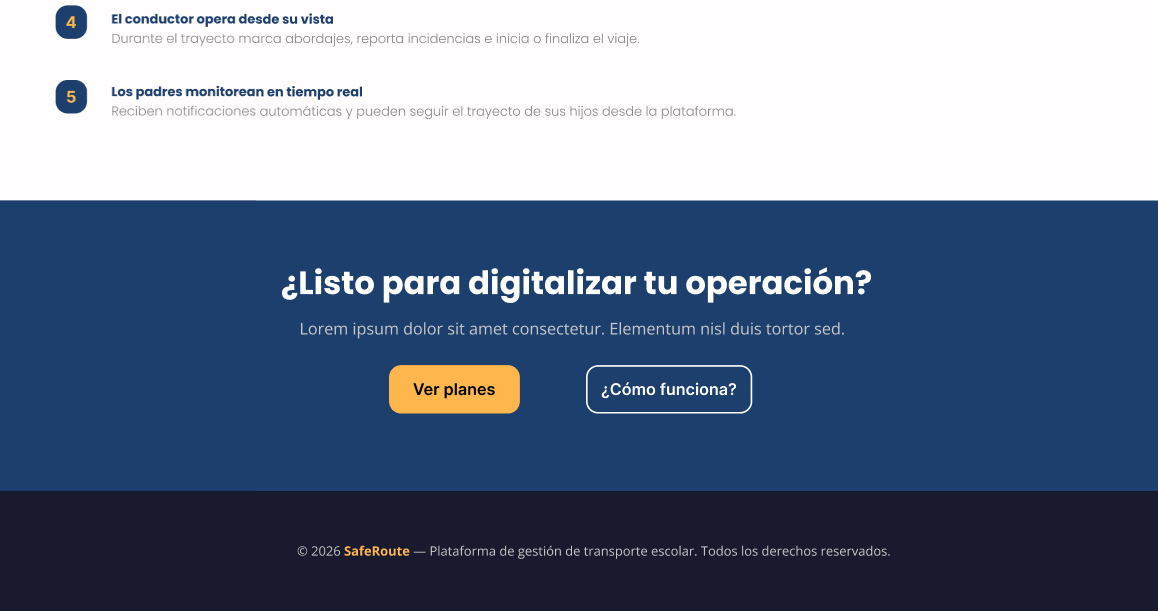
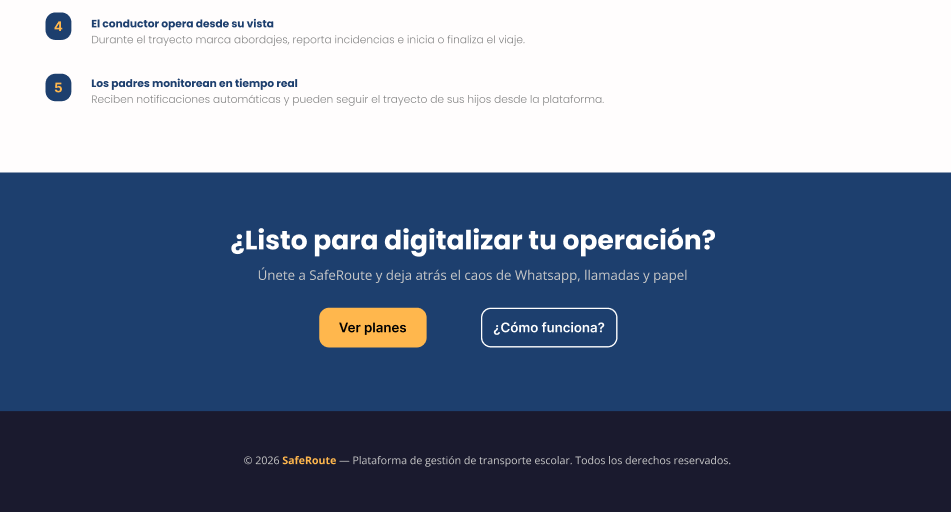
"docs: update mockups"

diff --git a/README.md b/README.md
@@ -185,7 +185,7 @@ En cuanto a la interactividad, la plataforma utiliza una lógica de componentes 
 
 ![Mockup Landing Page](assets/images/mockup_landingPage.png)
 ![Mockup Planes](assets/images/mockup_planes.png)
-![Mockup CTA](assets/images/mockup_cta.png)
+![Mockup footer](assets/images/mockup_footer.png)
 
 _Nota_: Elaboración propia.
 
